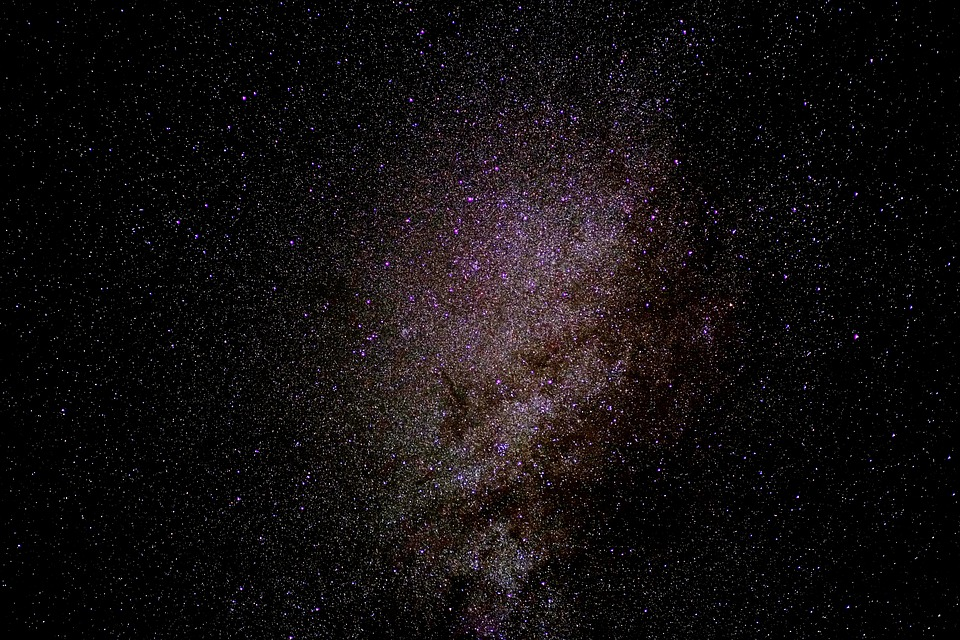
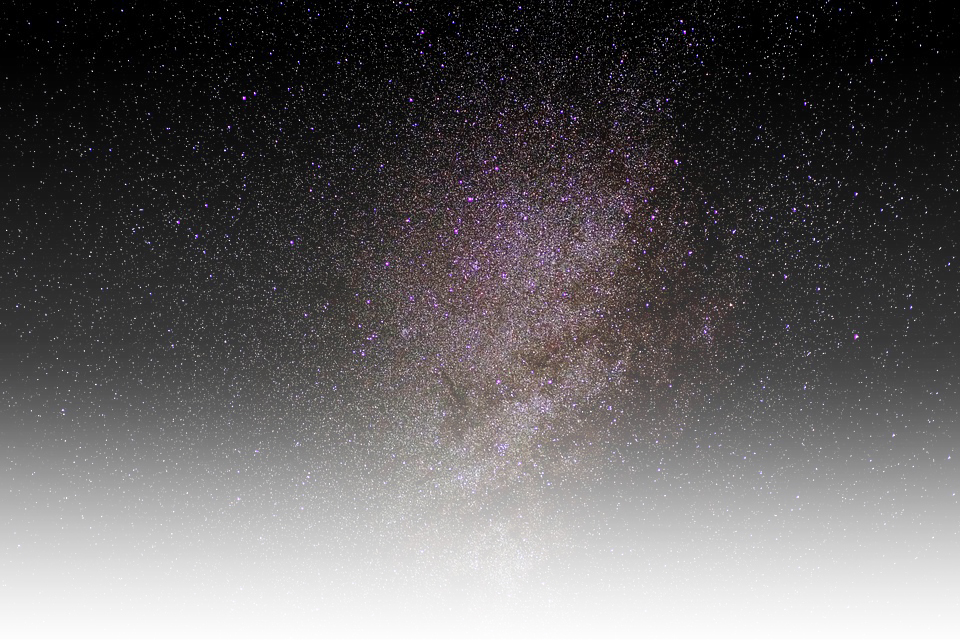
배경 수정

diff --git a/public/css/main.css b/public/css/main.css
@@ -148,8 +148,17 @@ a:not([href]):not([tabindex]):focus,
 a:not([href]):not([tabindex]):hover {
   color: #3498db;
 }
+
+#line-up{
+  padding: 80px 0;
+  background: url(../img/milky.jpg) no-repeat;
+  background-size: cover;
+}
 .section {
   padding: 80px 0;
+ 
+  /*background-color: rgba(236, 238, 239, 0.08)
+  */
 }
 .section-header {
   color: #fff;
@@ -229,9 +238,7 @@ a:not([href]):not([tabindex]):hover {
    Hero Area Style
    ========================================================================== */
 #hero-area {
-
-  background: url(../img/milky.jpg) no-repeat;
-
+  background: url(../img/seung/milky2.jpg) no-repeat;
   background-size: cover;
   color: #fff;
   overflow: hidden;
